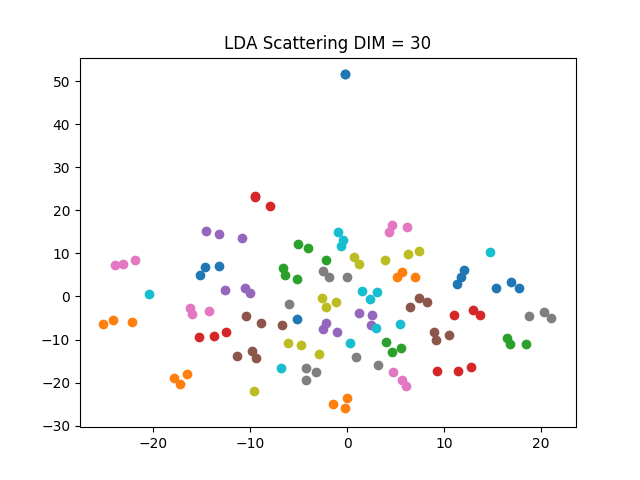
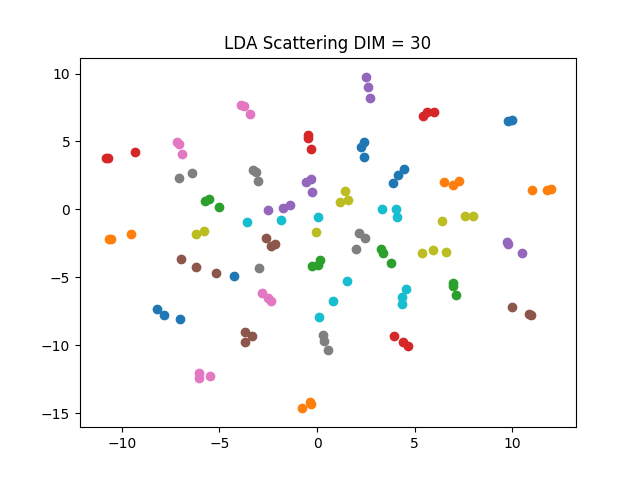
hw2-2 remains knn

diff --git a/hw2/hw2-2/hw2-2_experiment.py b/hw2/hw2-2/hw2-2_experiment.py
@@ -2,7 +2,10 @@ import numpy as np
 import cv2
 import matplotlib.pyplot as plt
 from sklearn.manifold import TSNE
-from hw2_2_utils import process_data, PCA, LDA
+from hw2_2_utils import process_data
+from hw2_2_model import Model
+from sklearn.neighbors import KNeighborsClassifier
+
 o_prefix = 'hw2-2_output/'
 H, W = 56, 46
 
@@ -10,13 +13,13 @@ class_list = list(range(1, 40 + 1))
 train_list = list(range(1, 7 + 1))
 test_list = list(range(8, 10 + 1))
 
-def meanface(imgs):
-   mean = np.average(imgs, axis = 0)
-   img = mean.reshape(H, W)
+def meanface():
+   img = model.mean.reshape(H, W)
    cv2.imwrite(o_prefix + 'meanface.png', img)
    print('Saving meanface.png ...')
 
-def first_five_eigenfaces(pcas):
+def first_five_eigenfaces():
+   pcas = model.pcas
    for i in range(5):
       img = pcas[:, i]
       img = img - np.min(img) # 把最小值移回設0
@@ -25,14 +28,16 @@ def first_five_eigenfaces(pcas):
       cv2.imwrite(o_prefix + 'eigenface-' + str(i) + '.png', img)
       print('Saving eigenface-' + str(i) + '.png ...')
 
-def reconstruct_pca(n, pcas, mean):
-   # 用n根來投影
-   pcas = pcas[:, :n]
+def reconstruct_pca(dim):
+   pcas, mean = model.pcas, model.mean
    # pcas: 2576 x n, img: 2576
    i_prefix = 'hw2-2_data/'
    img = cv2.imread(i_prefix + '8_6.png', 0).flatten()
-   y = pcas.transpose() @ (img - mean) # n
-   x = pcas @ y + mean
+
+   y = model.project_to_pca(img.reshape(-1, 2576), dim)
+   
+   x = model.reconstruct_by_pca(y, dim).reshape(-1)
+
    rmse = np.sum((img - x) ** 2) / (H * W)
    print('n = {}, MSE = {}'.format(pcas.shape[1] ,rmse))
    x = x.reshape(H, W)
@@ -41,12 +46,10 @@ def reconstruct_pca(n, pcas, mean):
    print('Saving ' + '8_6' + '-n=' + str(pcas.shape[1]) + '.png ...')
 
 # visualize pca-projected images using tsne
-def pca_projected_vis(imgs, mean, pcas): # imgs: testing data
-   # pca dim = 100
-   pcas = pcas[:, :100]
+def pca_projected_vis(imgs, dim): # imgs: testing data
    o_prefix = 'hw2-2_output/'
    # pcas: 2576 x dim, imgs: N x 2576 
-   Y = (imgs - mean) @ pcas # N x dim, 一個row代表一個投影
+   Y = model.project_to_pca(imgs, 100) # dim = 100
    em = TSNE(n_components = 2).fit_transform(Y)
 
    fig, ax = plt.subplots()
@@ -57,7 +60,8 @@ def pca_projected_vis(imgs, mean, pcas): # imgs: testing data
    plt.savefig(o_prefix + 'PCA-scattering.png')
    print('Saving PCA-scattering.png ...')
    
-def first_five_fisherfaces(ldas, pcas):
+def first_five_fisherfaces():
+   pcas, ldas = model.pcas, model.ldas
    # fisherfaces = pcas @ ldas
    # d x (C - 1) = d x (N - C) @ (N - C) x (C - 1)
    d, N, C = 2576, 280, 40
@@ -72,22 +76,11 @@ def first_five_fisherfaces(ldas, pcas):
       cv2.imwrite(o_prefix + 'fisherface-' + str(i) + '.png', img)
       print('Saving fisherface-' + str(i) + '.png ...')
 
-
 # visualize lda-projected images using tsne
-def lda_projected_vis(imgs, mean, ldas, pcas): # imgs: testing data
+def lda_projected_vis(imgs, dim): # imgs: testing data
    o_prefix = 'hw2-2_output/'
-   d, N, C = 2576, 280, 40
-   dim = 39
-   # 先投到pcas
-   pcas = pcas[:, : N - C] # 切pca
-   X = (imgs - mean) @ pcas # N x (N - C), 一個row代表一個投影
-   # 再投到ldas
-   ldas = ldas[:, : dim] # 切lda
-   Y = X @ ldas # N x dim
-   print(Y.shape)
-   input()
+   Y = model.project_to_lda(imgs, dim)
    em = TSNE(n_components = 2).fit_transform(Y)
-
    fig, ax = plt.subplots()
    for i in range(0, em.shape[0], 3):
       x_em, y_em = em[i : i + 3, 0], em[i : i + 3, 1]
@@ -96,22 +89,77 @@ def lda_projected_vis(imgs, mean, ldas, pcas): # imgs: testing data
    plt.savefig(o_prefix + 'LDA-scattering.png')
    print('Saving LDA-scattering.png ...')
 
+def cross_valid(k, n, Type):
+   knn = KNeighborsClassifier(n_neighbors = k)
+   if Type == 0:
+      print('[KNN PCA] n : {} k = {}'.format(n, k))
+   elif Type == 1:
+      print('[KNN LDA] n : {} k = {}'.format(n, k))
+
+   total_acc = 0
+   for i in range(3):
+      ratio = 2 / 3
+      msk = np.random.rand(280) < ratio
+      train_x, train_y = data_train[msk], data_train_label[msk]
+      valid_x, valid_y = data_train[~msk], data_train_label[~msk]
+      if Type == 0:
+         train_p = model.project_to_pca(train_x, n) # projected
+         valid_p = model.project_to_pca(valid_x, n)
+      elif Type == 1:
+         train_p = model.project_to_lda(train_x, n)
+         valid_p = model.project_to_lda(valid_x, n)       
+      knn.fit(train_p, train_y) # fit training data
+      predict = knn.predict(valid_p)
+      right = np.sum(np.equal(predict, valid_y)) # 算有幾個答對了
+      acc = right / valid_p.shape[0] # 正確率
+      total_acc += acc
+   total_acc = total_acc / 3
+   print('Validation Acc : {:.5f}'.format(total_acc))
+
+def test(k, n, Type):
+   knn = KNeighborsClassifier(n_neighbors = k)
+   # verify on the testing set
+   train_x, train_y = data_train, data_train_label
+   test_x, test_y = data_test, data_test_label
+   if Type == 0:
+      train_p = model.project_to_pca(train_x, n) # projected
+      test_p = model.project_to_pca(test_x, n)
+   elif Type == 1:
+      train_p = model.project_to_lda(train_x, n)
+      test_p = model.project_to_lda(test_x, n)       
+   knn.fit(train_p, train_y) # fit training data
+   predict = knn.predict(test_p)
+   right = np.sum(np.equal(predict, test_y)) # 算有幾個答對了
+   acc = right / test_p.shape[0] # 正確率
+   print('Testing Acc : {:.5f}'.format(acc))
+
+model = Model()
+data_train, data_train_label = process_data('hw2-2_data/', train_list)
+data_test, data_test_label = process_data('hw2-2_data/', test_list)
+
 if __name__ == '__main__':
-   data_train = process_data('hw2-2_data/', train_list)
-   data_test = process_data('hw2-2_data/', test_list)
-   mean = np.average(data_train, axis = 0)
-   pcas = PCA(data_train)
-   ldas = LDA(data_train)
-   # test a-1
-   # meanface(data_train)
-   # test a-2
-   # first_five_eigenfaces(pcas)
-   # test a-3
+   model.mean = np.average(data_train, axis = 0) # set mean
+   pcas = model.fit_PCA(data_train)
+   ldas = model.fit_LDA(data_train)
+   # testcase a-1
+   # meanface()
+   # testcase a-2
+   # first_five_eigenfaces()
+   # testcase a-3
    # for i in [5, 50, 150, pcas.shape[1]]:
-   #    reconstruct_pca(i, pcas, mean)
-   # test a-4
-   # pca_projected_vis(data_test, mean, pcas)
-   # test b-1
-   # first_five_fisherfaces(ldas, pcas)
-   # test b-2
-   lda_projected_vis(data_test, mean, ldas, pcas)
+   #   reconstruct_pca(i)
+   # testcase a-4
+   # pca_projected_vis(data_test, 100)
+   # testcase b-1
+   # first_five_fisherfaces()
+   # testcase b-2
+   # lda_projected_vis(data_test, 30)
+   # testcase c
+   for t in [0, 1]:
+      for n in [3, 10, 39]:
+         for k in [1, 3, 5]:
+            cross_valid(k, n, t)
+            test(k, n, t)
+            print()
+
+   

diff --git a/hw2/hw2-2/hw2_2_model.py b/hw2/hw2-2/hw2_2_model.py
@@ -1,0 +1,58 @@
+import numpy as np
+import cv2
+
+class Model:
+   def __init__(self):
+      self.mean = None
+      self.pcas = None
+      self.ldas = None
+   def fit_PCA(self, imgs):
+      cov = np.cov(imgs, rowvar = False) # 以column為feature, row為一單位
+      e_vals, e_vecs = np.linalg.eig(cov) # e_vals會由大到小排列 且實數在前
+      e_vecs = np.real(e_vecs)
+      N = imgs.shape[0]
+      self.pcas = e_vecs[:, 0 : N - 1] # 0 ~ N-2, 2576 X N - 1
+      return self.pcas
+   def fit_LDA(self, imgs):
+      pcas = self.pcas
+      g_item, g_num = 7, 40
+      # Slice pcas to N - C
+      pcas = pcas[:, : imgs.shape[0] - g_num]
+      # project imgs to pcas (dim = N - C)
+      # pcas: 2576 x N - C, imgs: N x 2576, Y: N x N - C
+      Y = (imgs - np.average(imgs, axis = 0)) @ pcas
+      imgs = Y
+      # perform LDA on imgs
+      # compute Sw, Sb
+      Sw, Sb = 0, 0
+      u = np.average(imgs, axis = 0) # 全部圖片的平均
+      for i in range(0, g_num * g_item, g_item):
+         X = imgs[i: i + g_item] # slice a group
+         ui = np.average(X, axis = 0) # 這組的平均
+         for j in range(X.shape[0]):
+            xj = X[j]
+            Sw += (xj - ui).reshape(-1, 1) @ (xj - ui).reshape(1, -1)
+         Sb += (ui - u).reshape(-1, 1) @ (ui - u).reshape(1, -1)
+      # find the eigenvectors of Sw.inv, Sb
+      mat = np.linalg.inv(Sw) @ Sb
+      e_vals, e_vecs = np.linalg.eig(mat)
+      e_vecs = np.real(e_vecs)
+      self.ldas = e_vecs[:, 0 : g_num - 1] # 0 ~ g_num - 2, (N - C) x (C - 1)
+      return self.ldas
+   def project_to_pca(self, imgs, dim): # 用幾根pca來project, 注意imgs維度是 N x 2576
+      pcas = self.pcas[:, : dim]
+      Y = (imgs - self.mean) @ pcas
+      return Y
+   def reconstruct_by_pca(self, project, dim): # project維度為 N x Pdim
+      pcas = self.pcas[:, : dim]
+      Y = project @ pcas.transpose() + self.mean
+      return Y # 回傳 N x 2576的圖
+   def project_to_lda(self, imgs, dim): # 用幾根lda來project, 注意imgs維度是 N x 2576
+      N, C = 280, 40
+      # 先投到pcas
+      pcas = self.pcas[:, : N - C] # 切pca
+      X = (imgs - self.mean) @ pcas # N x (N - C), 一個row代表一個投影
+      # 再投到ldas
+      ldas = self.ldas[:, : dim] # 切lda
+      Y = X @ ldas # N x dim
+      return Y

diff --git a/hw2/hw2-2/hw2_2_utils.py b/hw2/hw2-2/hw2_2_utils.py
@@ -4,54 +4,18 @@ import cv2
 class_list = list(range(1, 40 + 1))
 train_list = list(range(1, 7 + 1))
 test_list = list(range(8, 10 + 1))
+# np.set_printoptions(threshold=np.inf) # 把np content全部print出
 
 def process_data(prefix, idxs): # return n * m vector, n代表有幾張圖, m為flatten後的維度
    img_list = []
+   label_list = []
    for i in class_list:
       for j in idxs:
          file_name = str(i) + '_' + str(j) + '.png'
          img = cv2.imread(prefix + file_name, 0)
          img = img.flatten()
          img_list.append(img)
+         label_list.append(i)
    imgs = np.array(img_list, dtype = float)
-   # print(img_np.shape)
-   return imgs
-
-def PCA(imgs):
-   cov = np.cov(imgs, rowvar = False) # 以column為feature, row為一單位
-   e_vals, e_vecs = np.linalg.eig(cov)
-   sort_idxs = np.argsort(e_vals)[::-1] # 由大到小排序, 回傳indexs
-   e_vecs = e_vecs[:, sort_idxs] # 排序e_vecs
-   e_vecs = np.real(e_vecs)
-   e_vals = e_vals[sort_idxs]
-   N = imgs.shape[0]
-   return e_vecs[:, 0 : N - 1] # 0 ~ N-2, 2576 X N - 1
-
-def LDA(imgs):
-   pcas = PCA(imgs)
-   g_item, g_num = 7, 40
-   # Slice pcas to N - C
-   pcas = pcas[:, : imgs.shape[0] - g_num]
-   # project imgs to pcas (dim = N - C)
-   # pcas: 2576 x N - C, imgs: N x 2576, Y: N x N - C
-   Y = (imgs - np.average(imgs, axis = 0)) @ pcas
-   imgs = Y
-   # perform LDA on imgs
-   # compute Sw, Sb
-   Sw, Sb = 0, 0
-   u = np.average(imgs, axis = 0) # 全部圖片的平均
-   for i in range(0, g_num * g_item, g_item):
-      X = imgs[i: i + g_item] # slice a group
-      ui = np.average(X, axis = 0) # 這組的平均
-      for j in range(X.shape[0]):
-         xj = X[j]
-         Sw += (xj - ui).reshape(-1, 1) @ (xj - ui).reshape(1, -1)
-      Sb += (ui - u).reshape(-1, 1) @ (ui - u).reshape(1, -1)
-   # find the eigenvectors of Sw.inv, Sb
-   mat = np.linalg.inv(Sw) @ Sb
-   e_vals, e_vecs = np.linalg.eig(mat)
-   sort_idxs = np.argsort(e_vals)[::-1] # 由大到小排序, 回傳indexs
-   e_vecs = e_vecs[:, sort_idxs] # 排序e_vecs
-   e_vecs = np.real(e_vecs)
-   e_vals = e_vals[sort_idxs]
-   return e_vecs[:, 0 : g_num - 1] # 0 ~ g_num - 2, (N - C) x (C - 1)
+   labels = np.array(label_list, dtype = float)
+   return imgs, labels

diff --git a/hw2/hw2-2/p2.py b/hw2/hw2-2/p2.py
@@ -81,7 +81,9 @@ def draw_pca_test(pcas, mean):
    print('Saving PCA-scattering.png ...')
 
 def LDA(imgs, pcas): # pcas: N - C x 2576
+   print(imgs)
    g_item, g_num = 7, 40
+   print(pcas)
    # project imgs to pcas (dim = N - C)
    # Slice pcas to N - C
    pcas = pcas[:, : imgs.shape[0] - g_num]
@@ -112,6 +114,7 @@ def LDA(imgs, pcas): # pcas: N - C x 2576
    #    img = img.reshape(H, W)
    #    cv2.imwrite(o_prefix + 'fisherface-' + str(i) + '.png', img)
    #    print('Saving fisherface-' + str(i) + '.png ...')
+   print(e_vecs)
    return e_vecs[:, 0 : g_num - 1] # 0 ~ g_num - 2
 
 # TODO: color
@@ -202,16 +205,16 @@ if __name__ == '__main__':
    #    reconstruct_pca(pcas[:, :i], imgs)
    # draw_pca_test(pcas[:, :100], np.average(imgs, axis = 0))
    ldas = LDA(imgs, pcas)
-   # draw_lda_test(ldas[:, :30], np.average(imgs, axis = 0))
-   K, N = [1, 3, 5], [3, 10, 39]
+   draw_lda_test(ldas[:, :30], np.average(imgs, axis = 0))
+   # K, N = [1, 3, 5], [3, 10, 39]
 
-   for k in K:
-      for n in N:
-         print('PCA: k = {}, n = {}'.format(k, n))
-         cross_validation(k, n, imgs, pcas)
+   # for k in K:
+   #    for n in N:
+   #       print('PCA: k = {}, n = {}'.format(k, n))
+   #       cross_validation(k, n, imgs, pcas)
 
-   for k in K:
-      for n in N:
-         print('LDA: k = {}, n = {}'.format(k, n))
-         cross_validation(k, n, imgs, ldas)
+   # for k in K:
+   #    for n in N:
+   #       print('LDA: k = {}, n = {}'.format(k, n))
+   #       cross_validation(k, n, imgs, ldas)
    
